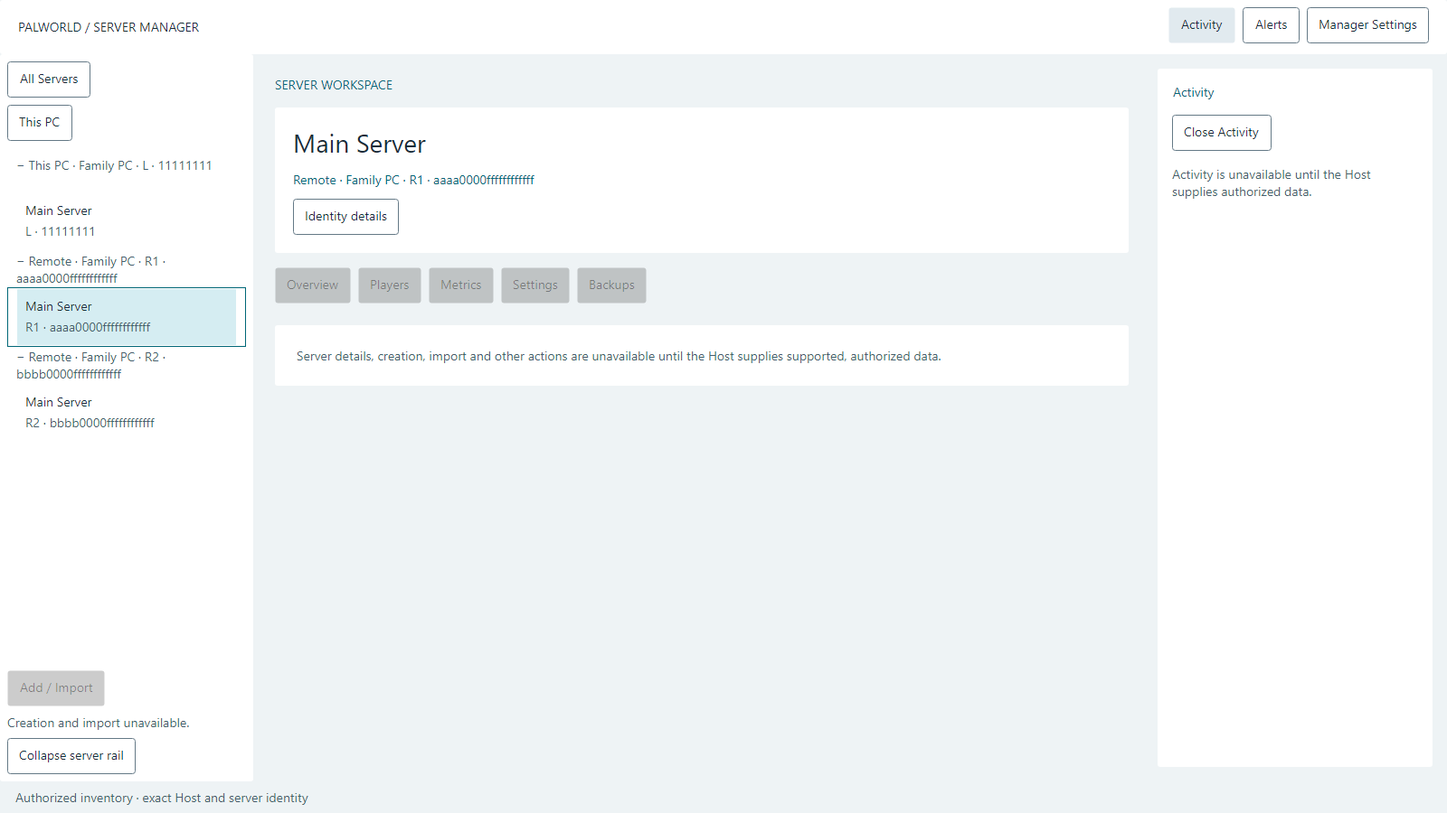
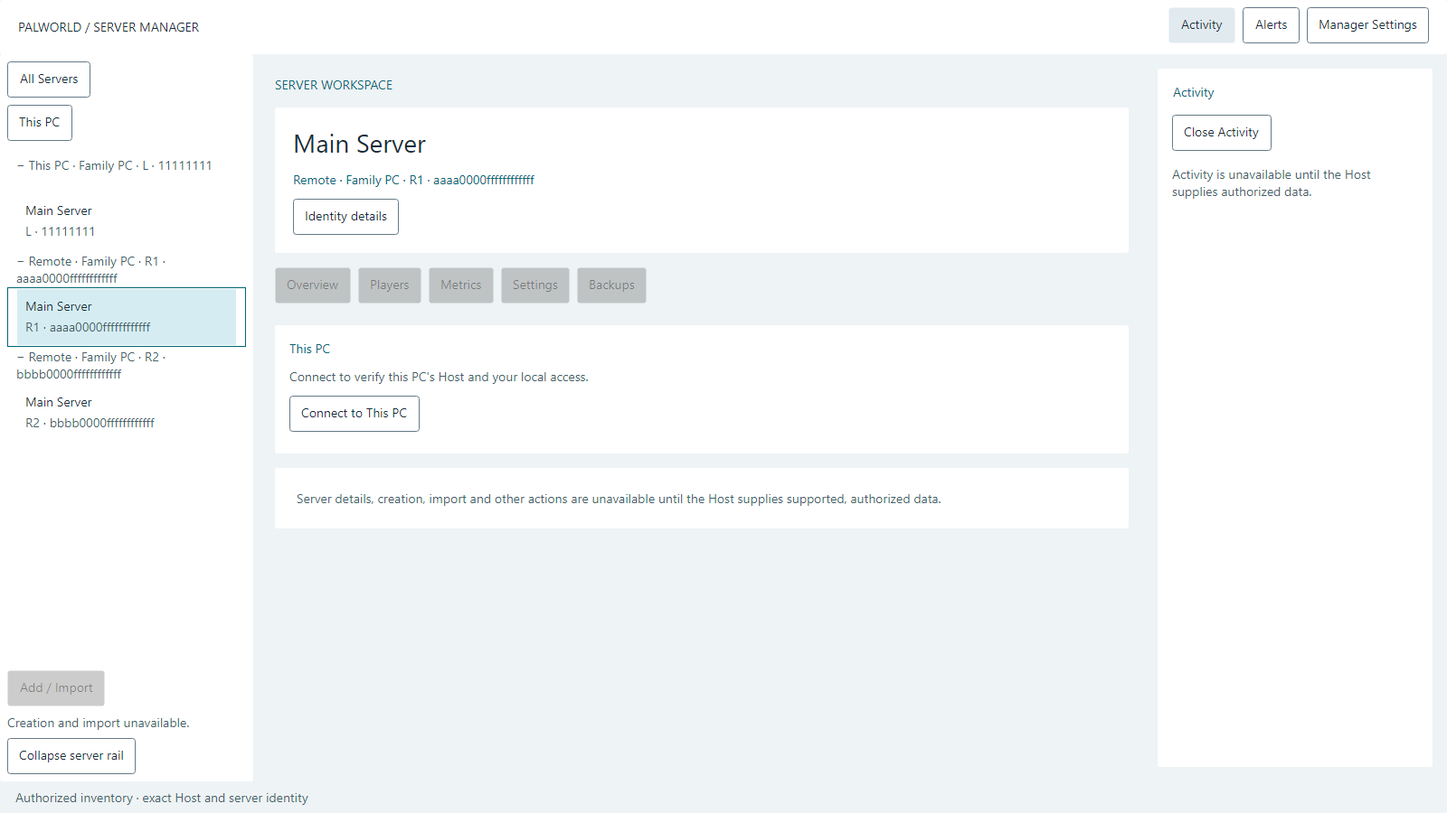
feat(client): verify local Host from Avalonia through shared IPC

Changed region(s): [[0.1875, 0.4356, 0.6562, 0.4667], [0.2188, 0.5911, 0.6562, 0.6222], [0.2188, 0.4978, 0.2812, 0.5289]]

diff --git a/src/PalworldServerManager.Client.Avalonia/MainWindow.Connection.cs b/src/PalworldServerManager.Client.Avalonia/MainWindow.Connection.cs
@@ -1,0 +1,83 @@
+using System.Security.Authentication;
+using Avalonia.Automation;
+using Avalonia.Controls;
+using Avalonia.Media;
+using Grpc.Core;
+using PalworldServerManager.Client.Platform.Contracts;
+using PalworldServerManager.Client.Security;
+using PalworldServerManager.Client.Avalonia.Shell;
+using PalworldServerManager.Contracts;
+
+namespace PalworldServerManager.Client.Avalonia;
+
+public partial class MainWindow
+{
+    private readonly Func<CancellationToken, Task<LocalConnectionInfo>>? _connectLocal;
+    private CancellationTokenSource? _connectionStop;
+    private Button _connectButton = null!, _cancelConnection = null!;
+    private readonly TextBlock _connectionStatus = Text("Connect to verify this PC's Host and your local access.", "muted");
+    private readonly SelectableTextBlock _connectionIdentity = new() { Name = "LocalHostIdentity", TextWrapping = TextWrapping.Wrap, IsVisible = false };
+    public LocalConnectionInfo? VerifiedConnection { get; private set; }
+    public bool IsConnecting => _connectionStop is not null;
+    private Control CreateConnectionControls()
+    {
+        _connectionStatus.Name = "LocalConnectionStatus";
+        var content = new StackPanel { Spacing = 12 };
+        content.Children.Add(Text("This PC", "accent")); content.Children.Add(_connectionStatus); content.Children.Add(_connectionIdentity);
+        _connectButton = Action("Connect to This PC", "ConnectLocal", button => { _ = ConnectLocalAsync(); });
+        _connectButton.IsEnabled = _connectLocal is not null;
+        _cancelConnection = Action("Cancel connection check", "CancelLocalConnection", _ => _connectionStop?.Cancel()); _cancelConnection.IsVisible = false;
+        var actions = new WrapPanel(); _connectButton.Margin = new(0, 0, 8, 8); actions.Children.Add(_connectButton); actions.Children.Add(_cancelConnection); content.Children.Add(actions);
+        if (_connectLocal is null) _connectionStatus.Text = "Local connection is unavailable in this view.";
+        return Card(content);
+    }
+    public async Task ConnectLocalAsync()
+    {
+        if (_closed || IsConnecting || _connectLocal is null) return;
+        using var stop = new CancellationTokenSource(TimeSpan.FromSeconds(60)); _connectionStop = stop;
+        VerifiedConnection = null; _connectionIdentity.Text = null; _connectionIdentity.IsVisible = false; BindState(null);
+        _connectButton.IsEnabled = false; _cancelConnection.IsVisible = true; _connectionStatus.Text = "Verifying the local Host and your access…";
+        try
+        {
+            var result = await _connectLocal(stop.Token); stop.Token.ThrowIfCancellationRequested();
+            if (_closed) return;
+            if (result.HostId == Guid.Empty || result.Identity.LocalPrincipalId == Guid.Empty) throw new InvalidDataException();
+            VerifiedConnection = result;
+            // No inventory protocol exists yet. Empty here means unavailable, never no servers.
+            BindState(new ShellState(new HostId(result.HostId), (_, _) => Task.FromResult(false)));
+            _connectionIdentity.Text = "This PC · Host: " + result.HostId.ToString("D"); _connectionIdentity.IsVisible = true;
+            AutomationProperties.SetName(_connectionIdentity, _connectionIdentity.Text);
+            _connectionStatus.Text = "Host and local access verified for this request. Server inventory is unavailable. Verify again to check current access.";
+        }
+        catch (Exception failure) when (failure is not OutOfMemoryException)
+        { if (!_closed) _connectionStatus.Text = ConnectionFailure(failure); }
+        finally
+        {
+            _connectionStop = null;
+            if (!_closed)
+            {
+                var returnFocus = _cancelConnection.IsKeyboardFocusWithin;
+                _connectButton.IsEnabled = true; _cancelConnection.IsVisible = false;
+                if (returnFocus) _connectButton.Focus();
+            }
+        }
+    }
+    private static string ConnectionFailure(Exception failure)
+    {
+        if (LocalSecurityClient.FindCause<LocalHostAuthenticationException>(failure) is not null)
+            return "Local Host authentication failed. Check the machine trust configuration.";
+        return failure switch
+        {
+            OperationCanceledException => "Connection check canceled or timed out. The Host may still be running.",
+            ClientActivationException { Status: HostActivationStatus.AccessDenied } => "Starting the local Host was refused. Check OS activation eligibility.",
+            ClientActivationException { Status: HostActivationStatus.ServiceMissing } => "The local Host service is not installed.",
+            ClientActivationException => "The local Host could not be started.",
+            LocalHostTrustUnavailableException => "Machine bootstrap has not published local trust.",
+            ProtocolCompatibilityException => "The local Host protocol is incompatible.",
+            AuthenticationException or RpcException { StatusCode: StatusCode.Unauthenticated or StatusCode.PermissionDenied } => "Local access was not verified. An authorized Owner may need to enroll or reauthorize this OS user.",
+            UnauthorizedAccessException => "Access to the local connection or credential was refused.",
+            InvalidDataException or ArgumentException or InvalidOperationException => "The local Host returned unsupported or invalid security data.",
+            _ => "The local connection failed. Check the Host and try again."
+        };
+    }
+}

diff --git a/tests/PalworldServerManager.Client.UiTest/ConnectionChecks.cs b/tests/PalworldServerManager.Client.UiTest/ConnectionChecks.cs
@@ -1,0 +1,56 @@
+using System.Security.Authentication;
+using Avalonia;
+using Avalonia.Controls;
+using Avalonia.Threading;
+using Avalonia.VisualTree;
+using Grpc.Core;
+using PalworldServerManager.Client.Avalonia;
+using PalworldServerManager.Client.Avalonia.Shell;
+using PalworldServerManager.Client.Avalonia.Views;
+using PalworldServerManager.Client.Platform.Contracts;
+using PalworldServerManager.Client.Security;
+
+namespace PalworldServerManager.Client.UiTest;
+
+public static partial class Program
+{
+    private static void ConnectionChecks(string output)
+    {
+        var expected = new LocalConnectionInfo(Guid.Parse("11111111-1111-1111-1111-111111111111"), new(Guid.Parse("22222222-2222-2222-2222-222222222222"), false));
+        var calls = 0; Func<CancellationToken, Task<LocalConnectionInfo>> reply = _ => Task.FromResult(expected);
+        var window = new MainWindow(ct => { calls++; return reply(ct); }) { Width = 800 };
+        try
+        {
+            window.Show(); Click(window, "ConnectLocal");
+            Check(window.VerifiedConnection == expected && window.State?.LocalHost.Value == expected.HostId && !window.IsConnecting, "Connection lost verified semantic identity.");
+            Check(Find<ServerTree>(window, "ServerTree").Items.Count == 0 && Find<SelectableTextBlock>(window, "LocalHostIdentity").Text!.Contains(expected.HostId.ToString("D")), "Connection invented inventory or hid exact Host.");
+            Check(Find<TextBlock>(window, "LocalConnectionStatus").Text!.Contains("inventory is unavailable"), "Empty inventory was represented as no servers.");
+            foreach (var theme in Enum.GetValues<ShellTheme>()) { window.SetTheme(theme); Capture(window, output, "connection-" + theme); }
+            window.Width = 640; window.FontSize = 28; Capture(window, output, "connection-enlarged");
+            Find<Button>(window, "ConnectLocal").BringIntoView(); Dispatcher.UIThread.RunJobs();
+            Capture(window, output, "connection-enlarged");
+            var connect = Find<Button>(window, "ConnectLocal"); var position = connect.TranslatePoint(default, window)!.Value;
+            Check(position.X >= 0 && position.X + connect.Bounds.Width <= window.Width && position.Y >= 0 && position.Y + connect.Bounds.Height <= window.Height, "Enlarged connection control is unreachable.");
+            window.FontSize = 14; window.Width = 800; window.UpdateLayout();
+            foreach (var failure in new Exception[] { new AuthenticationException("SECRET"), new RpcException(new(StatusCode.Unauthenticated, "SECRET")),
+                new ClientActivationException(HostActivationStatus.AccessDenied), new LocalHostTrustUnavailableException("SECRET"),
+                new LocalHostAuthenticationException("SECRET"), new IOException("SECRET") })
+            {
+                reply = _ => Task.FromException<LocalConnectionInfo>(failure); Click(window, "ConnectLocal");
+                Check(window.VerifiedConnection is null && window.State is null && !Find<SelectableTextBlock>(window, "LocalHostIdentity").IsVisible, "Failed reconnect retained a verified identity.");
+                Check(!window.GetVisualDescendants().OfType<TextBlock>().Any(text => text.Text?.Contains("SECRET") == true), "UI disclosed exception detail.");
+            }
+            Capture(window, output, "connection-failure");
+            reply = _ => Task.FromResult(default(LocalConnectionInfo)); Click(window, "ConnectLocal"); Check(window.VerifiedConnection is null, "Malformed reply accepted.");
+            var pending = new TaskCompletionSource<LocalConnectionInfo>(); CancellationToken captured = default;
+            reply = ct => { captured = ct; return pending.Task; }; Click(window, "ConnectLocal"); var atStart = calls;
+            _ = window.ConnectLocalAsync(); Check(calls == atStart && window.IsConnecting && !Find<Button>(window, "ConnectLocal").IsEnabled, "Concurrent connect was not single-flight.");
+            Capture(window, output, "connection-pending"); Click(window, "CancelLocalConnection"); Check(captured.IsCancellationRequested, "Cancel did not signal the client request.");
+            pending.SetResult(expected); Dispatcher.UIThread.RunJobs();
+            Check(window.VerifiedConnection is null && window.State is null && !window.IsConnecting && Find<Button>(window, "ConnectLocal").IsFocused && Find<TextBlock>(window, "LocalConnectionStatus").Text!.Contains("Host may still be running"), "Canceled late success established identity, lost focus or claimed Host rollback.");
+            pending = new(); reply = ct => { captured = ct; return pending.Task; }; Click(window, "ConnectLocal"); window.Close(); pending.SetResult(expected); Dispatcher.UIThread.RunJobs();
+            Check(captured.IsCancellationRequested && window.VerifiedConnection is null && !window.IsConnecting, "Closed window retained late connection state.");
+        }
+        finally { window.Close(); }
+    }
+}

diff --git a/src/PalworldServerManager.Client.Avalonia/MainWindow.axaml.cs b/src/PalworldServerManager.Client.Avalonia/MainWindow.axaml.cs
@@ -9,6 +9,7 @@ using Avalonia.VisualTree;
 using PalworldServerManager.Client.Avalonia.Shell;
 using PalworldServerManager.Client.Avalonia.Views;
 using PalworldServerManager.Contracts;
+using PalworldServerManager.Client.Security;
 
 namespace PalworldServerManager.Client.Avalonia;
 
@@ -49,8 +50,10 @@ public partial class MainWindow : Window
     }
     private static Border Card(Control child, double padding = 16)
     { var border = new Border { Child = child, Padding = new(padding) }; border.Classes.Add("card"); return border; }
-    public MainWindow()
+    public MainWindow() : this(null) { }
+    public MainWindow(Func<CancellationToken, Task<LocalConnectionInfo>>? connectLocal)
     {
+        _connectLocal = connectLocal;
         InitializeComponent(); Resources["BodySize"] = 14d; SetTheme(ShellTheme.Refined);
         _chrome.Margin = new(16, 8); _brand.Margin = new(4, 12, 24, 12); _chrome.Children.Add(_brand); _chrome.Children.Add(_globalActions);
         foreach (var label in new[] { "Activity", "Alerts", "Manager Settings" })
@@ -86,6 +89,7 @@ public partial class MainWindow : Window
         tabScroll.PropertyChanged += (_, change) => { if (change.Property == ScrollViewer.ExtentProperty || change.Property == ScrollViewer.ViewportProperty)
             left.IsVisible = right.IsVisible = tabScroll.Extent.Width > tabScroll.Viewport.Width + 1; };
         _workspace.Children.Add(tabRegion);
+        _workspace.Children.Add(CreateConnectionControls());
         _workspace.Children.Add(Card(Text("Server details, creation, import and other actions are unavailable until the Host supplies supported, authorized data.", "muted"), 24));
         _drawer.Name = "GlobalPanel"; _drawer.Classes.Add("card"); _drawer.Child = new ScrollViewer { Content = _panel }; _drawer.Padding = new(16); _drawer.Margin = new(8, 16, 16, 16); _drawer.IsVisible = false;
         _body.Children.Add(_drawer);
@@ -110,7 +114,7 @@ public partial class MainWindow : Window
         // Keep this shell static, including newly materialized template parts, before rendering.
         LayoutUpdated += (_, _) => { foreach (var control in this.GetVisualDescendants().OfType<Control>()) if (control.Transitions is not null) control.Transitions = null; };
         KeyDown += (_, e) => { if (e.Key == Key.Escape) { if (_identity.IsVisible) CloseIdentity(); else if (_panelKind is not null) ClosePanel(); else if (_railOpen) ToggleRail(); else return; e.Handled = true; } };
-        Closed += (_, _) => { _closed = true; _selectionVersion++; _selectionStop.Cancel(); _selectionStop.Dispose(); if (_state is not null) _state.PropertyChanged -= StateChanged; };
+        Closed += (_, _) => { _closed = true; _connectionStop?.Cancel(); _selectionVersion++; _selectionStop.Cancel(); _selectionStop.Dispose(); if (_state is not null) _state.PropertyChanged -= StateChanged; };
         LayoutShell(); Refresh();
     }
     public void SetTheme(ShellTheme theme)
@@ -135,10 +139,10 @@ public partial class MainWindow : Window
     {
         if (!ReferenceEquals(_rows, _state?.Rows) || _scope != _state?.Scope) RebuildTree();
         _title.Text = _state?.SelectedRow?.Name ?? (_state?.Scope is null ? "All Servers" : _state.Scope == _state.LocalHost ? "This PC" : "Remote Host");
-        _host.Text = _state?.SelectedRow?.HostLabel ?? (_state is null ? "Local Host disconnected" : "Only authorized servers are shown");
+        _host.Text = _state?.SelectedRow?.HostLabel ?? (VerifiedConnection is not null ? "This PC · identity verified; inventory unavailable" : _state is null ? "Local Host disconnected" : "Only authorized servers are shown");
         _details.IsVisible = _state?.SelectedRow is not null;
         _thisPc.IsEnabled = _state is not null;
-        _status.Text = _state?.IsSelectionPending == true ? "Checking server access…" : _state is null ? "Local Host disconnected" : "Authorized inventory · exact Host and server identity";
+        _status.Text = _state?.IsSelectionPending == true ? "Checking server access…" : VerifiedConnection is not null ? "Host verified on this request · inventory unavailable" : _state is null ? "Local Host disconnected" : "Authorized inventory · exact Host and server identity";
         RefreshSelection();
     }
     private void RefreshSelection()

diff --git a/tests/PalworldServerManager.Client.UiTest/Program.cs b/tests/PalworldServerManager.Client.UiTest/Program.cs
@@ -14,7 +14,7 @@ using PalworldServerManager.Contracts;
 
 namespace PalworldServerManager.Client.UiTest;
 
-public static class Program
+public static partial class Program
 {
     public static AppBuilder BuildAvaloniaApp() => AppBuilder.Configure<App>().UseSkia()
         .UseHeadless(new AvaloniaHeadlessPlatformOptions { UseHeadlessDrawing = false });
@@ -23,7 +23,7 @@ public static class Program
         using var deadline = new Timer(_ => { Console.Error.WriteLine("UI test process deadline exceeded."); Environment.Exit(2); }, null, TimeSpan.FromMinutes(2), Timeout.InfiniteTimeSpan);
         var output = args.Length == 0 ? Path.Combine("build-logs", "shell-renders") : args[0]; Directory.CreateDirectory(output);
         using var session = HeadlessUnitTestSession.StartNew(typeof(Program));
-        try { await session.Dispatch(() => Run(output), CancellationToken.None); Console.WriteLine("PASS actual Avalonia shell rendering/input checks"); return 0; }
+        try { await session.Dispatch(() => { Run(output); ConnectionChecks(output); }, CancellationToken.None); Console.WriteLine("PASS actual Avalonia shell rendering/input and connection checks"); return 0; }
         catch (Exception failure) { Console.Error.WriteLine(failure); Environment.Exit(1); return 1; }
     }
     private static void Check(bool value, string message) { if (!value) throw new Exception(message); }
@@ -52,11 +52,11 @@ public static class Program
         var state = new ShellState(local, (target, _) => { requested = target; return Task.FromResult(true); });
         var rows = new[] { local, remoteA, remoteB }.Select(host => new ShellServer(new(host, profile), "Main Server", "Family PC")).ToArray();
         state.ReplaceAuthorizedInventory(rows);
-        var window = new MainWindow();
+        var window = ((App)Application.Current!).CreateMainWindow();
         try
         {
             window.Show(); Capture(window, output, "disconnected");
-            Check(window.State is null && Find<ServerTree>(window, "ServerTree").Items.Count == 0, "Production shell shipped synthetic inventory.");
+            Check(window.State is null && Find<ServerTree>(window, "ServerTree").Items.Count == 0 && Find<Button>(window, "ConnectLocal").IsEnabled, "Production shell shipped synthetic inventory or lost connection wiring.");
             window.BindState(state); Dispatcher.UIThread.RunJobs();
             var tree = Find<ServerTree>(window, "ServerTree"); var groups = tree.Items.Cast<TreeViewItem>().ToArray();
             var first = (TreeViewItem)groups[0].Items[0]!; first.Focus(); Key(window, PhysicalKey.ArrowDown); Key(window, PhysicalKey.ArrowDown);

diff --git a/src/PalworldServerManager.Client.Shared/LocalSecurityClient.cs b/src/PalworldServerManager.Client.Shared/LocalSecurityClient.cs
@@ -11,6 +11,7 @@ using PalworldServerManager.Contracts.Wire;
 namespace PalworldServerManager.Client.Security;
 
 public readonly record struct LocalIdentity(Guid LocalPrincipalId, bool IsOwner);
+public readonly record struct LocalConnectionInfo(Guid HostId, LocalIdentity Identity);
 public sealed class ClientActivationException(HostActivationStatus status) : Exception("Local Host activation failed.")
 { public HostActivationStatus Status { get; } = status; }
 
@@ -116,6 +117,12 @@ public sealed class LocalSecurityClient(ILocalHostTrustReader trust, ILocalHostH
     }
     public async Task<LocalIdentity> GetIdentityAsync(CancellationToken ct = default)
     { using var session = await Open(ct).ConfigureAwait(false); return await AuthenticateCurrent(session, ct).ConfigureAwait(false); }
+    public async Task<LocalConnectionInfo> ConnectAsync(CancellationToken ct = default)
+    {
+        using var session = await Open(ct).ConfigureAwait(false);
+        var identity = await AuthenticateCurrent(session, ct).ConfigureAwait(false);
+        return new(session.HostId, identity);
+    }
     public async Task<EnrollmentInvitation> CreateEnrollmentAsync(string intendedOsPrincipal, CancellationToken ct = default)
     {
         if (string.IsNullOrWhiteSpace(intendedOsPrincipal) || intendedOsPrincipal.Length > 256) throw new ArgumentException("An intended OS principal is required.");

diff --git a/tests/PalworldServerManager.SelfTest/ClientSecurityCompositionTests.cs b/tests/PalworldServerManager.SelfTest/ClientSecurityCompositionTests.cs
@@ -234,6 +234,17 @@ public static class ClientSecurityCompositionTests
         Check(factories == 0, "Malformed command opened a client.");
         Check(await LocalSecurityCommands.RunAsync(["identity"], InvalidFactory, TextReader.Null, output, error) == 1 && !error.ToString().Contains("SENSITIVE"), "CLI leaked exception detail.");
     }
+    public static async Task ConnectionIdentity()
+    {
+        await using var f = new Fixture(); await f.Host.Start();
+        await Reject<AuthenticationException>(() => f.Client().ConnectAsync());
+        var ticket = f.Ticket(LocalEnrollmentPurpose.InitialOwner); var owner = await f.Client().CompleteHandoffAsync(ticket);
+        var result = await f.Client().ConnectAsync();
+        Check(result.HostId == f.Host.State.HostId && result.Identity == owner, "Connect did not return the authenticated semantic Host/principal pair.");
+        var wrong = new WindowsLocalHostHttpTransportFactory(f.Host.Trust(new string('0', 64)), f.Host.Pipe);
+        await Reject<RpcException>(() => f.Client(wrong).ConnectAsync());
+        Check(f.Activation.Calls == 0, "Connect classified authentication failure as service dormancy.");
+    }
     public static async Task NegotiationAndProofBoundaries()
     {
         await using var f = new Fixture();

diff --git a/tests/PalworldServerManager.SelfTest/Program.cs b/tests/PalworldServerManager.SelfTest/Program.cs
@@ -124,6 +124,7 @@ var tests = new List<(string Name, Func<Task> Run)>
     ("Ordinary client re-home preserves persisted key choice across lost results", ClientSecurityCompositionTests.RehomeKeyChoice),
     ("Ordinary client enrollment CLI and Owner authority use real local RPC", ClientSecurityCompositionTests.EnrollmentAndAuthority),
     ("Ordinary client activation and errors preserve security classifications", ClientSecurityCompositionTests.ActivationAndErrors),
+    ("Local connect exposes only authenticated semantic Host and principal identity", ClientSecurityCompositionTests.ConnectionIdentity),
     ("Ordinary client negotiation and prepared-key proof fail closed", ClientSecurityCompositionTests.NegotiationAndProofBoundaries),
     ("Host service worker releases resources and distinguishes stop from failure", HostServiceWorkerTests.Lifecycle),
     ("Production local listener ignores external hosting and endpoint configuration", LocalSecurityRpcTests.ProductionConfiguration),

diff --git a/src/PalworldServerManager.Client.Avalonia/App.axaml.cs b/src/PalworldServerManager.Client.Avalonia/App.axaml.cs
@@ -8,15 +8,16 @@ namespace PalworldServerManager.Client.Avalonia;
 public partial class App : Application
 {
     private readonly Lazy<LocalSecurityClient> _security = new(Program.CreateSecurityClient);
-    // Later authorized screens share the ordinary CLI's exact transport and per-user boundary.
+    // All local UI requests share the ordinary CLI's exact transport and per-user boundary.
     public LocalSecurityClient LocalSecurity => _security.Value;
     public override void Initialize() => AvaloniaXamlLoader.Load(this);
+    public MainWindow CreateMainWindow() => new(ct => LocalSecurity.ConnectAsync(ct));
 
     public override void OnFrameworkInitializationCompleted()
     {
         if (ApplicationLifetime is IClassicDesktopStyleApplicationLifetime desktop)
         {
-            desktop.MainWindow = new MainWindow();
+            desktop.MainWindow = CreateMainWindow();
         }
 
         base.OnFrameworkInitializationCompleted();

diff --git a/docs/experiments/astra-v0.5.0-trial.md b/docs/experiments/astra-v0.5.0-trial.md
@@ -1275,3 +1275,28 @@ Corrected local zero-warning build, 221/221 ordinary tests, actual UI suite and 
 ## #52b integration checkpoint
 
 Corrected CI 34016295341 PASS for both ordinary/UI and actual Windows service/multi-user jobs. Final ledger Docs 34016439443 PASS at PR HEAD 49d8a1c71ef811e1f11c7d82c0b8ddc3f42fa63d. Exact unchanged base/HEAD verified; PR #85 merged as ce3fbba44f7b42f2e66edcf3baa8a33cb4d91238. #52b SHADOW DONE; full #52 remains IN PROGRESS. Sixteen correction/verification iterations (15 pre-PR, B1), both reviews clean. Twenty-five PRs #61-#85 merged; nine canonical children done, fourteen #42 units, two #52 units and separate #34 correction. Total correction cycles 83; 221 ordinary tests plus actual rendered/input and Windows integration suites. Three historical escaped defects corrected, none known open. No external reviewer or canonical mutation. #44 qualified-dependency hold unchanged. Continue #52c with connection UI and explicit actual/native qualification.
+
+## #52c1 connection UI preflight
+
+Base 6ad05b66a78d258a4a5e9de95ca3572728aa9de5; branch astra/52-local-connection. Read-only #52 contract refreshed, dependencies unchanged. Decompose remaining c into c1 ordinary connection UI/client integration and c2 actual Windows UI connection plus native accessibility qualification. Implement explicit Connect to This PC through the existing LocalSecurityClient and single App composition root. Add a read-only ConnectAsync result exposing the already validated semantic HostId with proved LocalPrincipal identity, without a new RPC. Only an absent pipe permits the existing bounded IHostActivation start/retry path; no direct Host/Core/service/process/filesystem call in the view. No automatic enrollment, bootstrap, Owner action or authority inference. A successful check is a point-in-time result; inventory remains unavailable because no inventory RPC exists. No fabricated live connection, servers or heartbeat.
+
+All registry families audited in preflight, especially CLIENT-001-003, LOCAL-001-004, IDENT-001/002, SEC-001, HOST-002 and PLATFORM-001/002. Changes are shared client API, App/view wiring, actual UI tests and existing local-RPC seam tests, docs/evidence/ledger. Validate exact Host identity/proof, no activation on trust/protocol/auth failure, single-flight and cancellation, stale completion after close, fixed non-secret diagnostics, empty unavailable inventory and accessible/rendered connection controls. Existing real Windows service tests retained; new end-to-end UI/service identity qualification remains c2 and cannot be inferred from injected UI replies. Native screen-reader/high-contrast evidence remains an explicit actual field gate. Both reviews, full build/tests/guards, remote CI and strict docs required before c1 merge. No new Product Decision or change to approved #44 hold.
+
+## #52c1 Review Pass A
+
+Five pre-PR correction iterations: A1 compiler warning required a true public parameterless XAML constructor alongside the injected constructor; A2 source review found focus could remain on the disappearing Cancel button, fixed with focus return and an assertion; A3 review strengthened evidence to use the real App factory for production startup and added actual 640/200% connection scrolling; A4 compiler found a missing Avalonia extension namespace in that new test; A5 the new test failed because BringIntoView preceded rendered resized layout, corrected to render/layout first, then scroll and assert actual bounds. The final enlarged screenshot confirms the action is reachable and the full Host UUID remains available; no product overflow fix was needed for A5. No escaped defect or authority change.
+
+Complete changed source/API/App/view/test/doc impact review: the public result is returned only after pinned negotiation and proof on one disposed session; identity never comes from a fingerprint or OS group. Single-flight resets old data, cancellation rejects late replies, close prevents further view updates, and every displayed diagnostic is fixed text. The only activation path remains LocalSecurityClient.Open through IHostActivation after a proven absent pipe. All credential holders, enrollment/recovery and grant-issuance paths remain unchanged. Production App construction is lazy and does not connect until the user invokes the button. Real service/UI integration and native accessibility remain explicitly distinct from injected UI tests.
+
+| Invariants | Whole-result evidence | Result |
+|---|---|---|
+| ARCH-001/002, CLIENT-001 | No new project/package edges, frozen WPF/Lan untouched; ordinary architecture guards retained | PASS code; CI pending |
+| CLIENT-002/003, LOCAL-001-004, OWNER-001/002, SEC-001 | Same pinned channel/per-user proof; no machine key, enrollment/Owner shortcut or raw diagnostics; API unregistered/wrong-pin tests and UI failure tests | PASS local; actual regression CI pending |
+| IDENT-001-004 | HostId from exact validated negotiation; principal proof matches; full selectable Host UUID; no rotation changes | PASS local |
+| HOST-001/002, PERSIST-001 | Only accepted activation seam; no local Host/process/filesystem writer or privileged client | PASS |
+| REMOTE-001/002, PAIR-001-004, AUTH-001-005 | Empty inventory explicitly unavailable; no remote connection, pairing inference or capability creation | PASS |
+| PROTO-001 | No new RPC/version/enum; existing negotiation checks unchanged | PASS |
+| OPS-001-004, RECOVERY-001 | UI cancellation only cancels the request; explicitly no rollback/stopped-Host claim | PASS |
+| MIG-001, PLATFORM-001/002, LINUX-001 | Single App/Program Windows composition; no legacy, Host UI, Linux or release changes | PASS |
+
+Corrected zero-warning build, 222/222 ordinary tests and actual rendered/input/connection suite PASS. Strict docs previously passed and final refresh validation remains. Required remote CI, full refreshed-frame inspection, final stale-reference review and both review gates remain before merge. #52c1 is not full #52 acceptance.

diff --git a/docs/developer/v0.5-avalonia-connection.md b/docs/developer/v0.5-avalonia-connection.md
@@ -1,0 +1,11 @@
+# Local Host connection in Avalonia
+
+Trial reference: #52c1. The shell's explicit **Connect to This PC** button uses `App.CreateMainWindow` and the existing ordinary `LocalSecurityClient` through its Windows composition root. `ConnectAsync` returns the semantic HostId from pinned local negotiation together with the proved per-user LocalPrincipal identity. It adds no wire method. The channel closes after the check, so the UI describes a verification for this request and invites another check; it does not claim a continuous live connection.
+
+Only the existing proven-missing-pipe path can request `IHostActivation.RequestStartAsync`, once, with bounded negotiation retries. Wrong trust, failed proof and generic transport errors cannot start a fallback Host or create authority. No bootstrap, enrollment, privileged CLI, direct process/filesystem operation or remote connection is reachable from this control. Initial enrollment and recovery remain explicit authorized procedures, not automatic consequences of connecting.
+
+Each attempt clears previous rendered inventory and verified identity. Attempts are single-flight with a sixty-second cancellation budget. Cancel/close cancels the client request and rejects even a late successful reply; it does not promise to stop a service whose start was already requested. Completion restores focus from the disappearing Cancel control. Diagnostics use fixed classifications without raw exception details. Full semantic HostId is selectable on success. The empty shell model is explicitly labelled **inventory unavailable**, because no inventory protocol exists yet; it does not imply zero servers or infer paired resources.
+
+The ordinary self-test suite exercises this public API over the accepted local RPC test fixture, including unregistered refusal, proved Host/principal identity and wrong-pin refusal without activation. Actual Avalonia input tests exercise the rendered connection button, success, fixed failure messages, empty/invalid replies, single-flight, cancellation with late success, focus return and late replies after window close. These UI inputs are synthetic and do not certify real SCM/DPAPI integration. [Rendered connection evidence](../design/astra-52-shell/README.md) uses the actual view and three semantic themes.
+
+The existing actual Windows service/multi-user suite remains mandatory regression coverage. New UI-to-service qualification and native assistive-technology/high-contrast evidence remain #52c2; neither is represented as passing from these injected UI tests. Full #52 remains in progress.

diff --git a/docs/developer/v0.5-avalonia-shell.md b/docs/developer/v0.5-avalonia-shell.md
@@ -6,7 +6,7 @@ The permanent rail groups authorized rows by exact HostId. All Servers and This 
 
 The 280-unit rail collapses to 88 below 1200; the 304-unit Activity/Alerts/Settings panel overlays at narrow widths without a blocking backdrop. The rail can temporarily expand. Global controls reflow without disappearing. At 640 units and 200% text, compact controls retain full accessible names, the rail still has scrollable rows, and the five tabs scroll with explicit controls. A shell-specific two-unit accent focus adorner remains separate from selected fill. Refined alone adds original angular corner lines; minimal themes change semantic tokens with otherwise identical geometry. System Segoe UI/Arial replaces the scaffold's bundled Inter font.
 
-The shell is static: it introduces no animation, and also disables Fluent template transitions. Reduce-motion preference starts enabled; turning it off does not introduce optional motion. Appearance controls currently affect the current view only; persistence and other Manager settings are not implemented by this unit. Local connection/activation UI remains #52c, and no new inventory RPC or client-side server operation is invented here.
+The shell is static: it introduces no animation, and also disables Fluent template transitions. Reduce-motion preference starts enabled; turning it off does not introduce optional motion. Appearance controls currently affect the current view only; persistence and other Manager settings are not implemented by this unit. [Local connection UI](v0.5-avalonia-connection.md) uses the accepted authenticated client/activation path; no new inventory RPC or client-side server operation is invented here.
 
 ## Validation
 

diff --git a/docs/developer/v0.5-shell-state.md b/docs/developer/v0.5-shell-state.md
@@ -1,6 +1,6 @@
 # Avalonia shell state foundation
 
-Trial reference: #52, bounded unit #52a. The shell model consumes the authenticated local Host's authorized inventory through `ReplaceAuthorizedInventory`. It does not discover servers, infer inventory from trust, or grant authority. No inventory RPC is introduced by this unit. [The actual shell](v0.5-avalonia-shell.md) consumes this model in #52b; activation UI and native qualification remain #52c.
+Trial reference: #52, bounded unit #52a. The shell model consumes the authenticated local Host's authorized inventory through `ReplaceAuthorizedInventory`. It does not discover servers, infer inventory from trust, or grant authority. No inventory RPC is introduced by this unit. [The actual shell](v0.5-avalonia-shell.md) consumes this model; [local connection](v0.5-avalonia-connection.md) binds an empty model explicitly labelled inventory unavailable. Actual UI/service and native qualification remain #52c2.
 
 `ShellState` is owned by the UI thread. Each row, focus, selection and selector invocation retains the exact `ServerRef(AuthoritativeHostId, ServerProfileId)`. Display labels cannot redirect a target. Host aliases and server aliases are not reused during the model lifetime; shortened Host UUID suffixes expand on collisions. Full UUIDs are available in the accessible identity text. Control, Unicode format, line-separator and paragraph-separator characters in labels are replaced so they cannot forge the identity layout.
 
